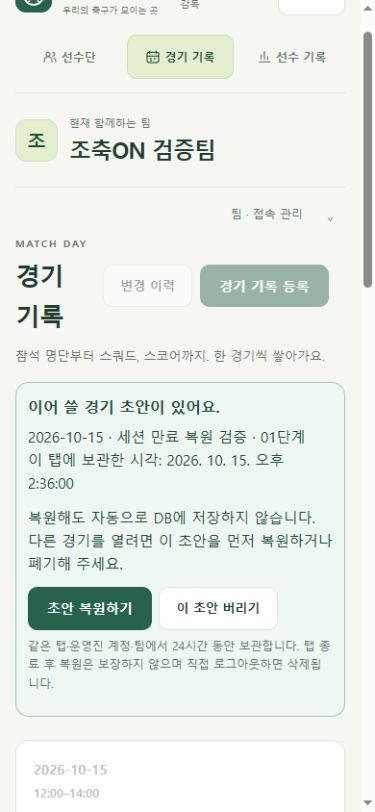
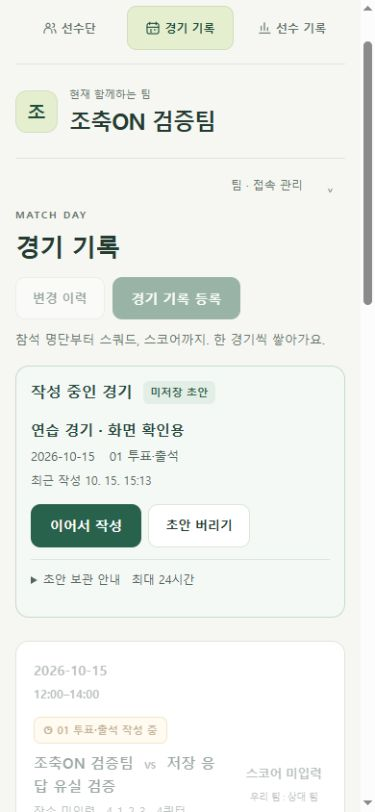
docs: refresh readable match recovery notice [skip ci]

diff --git a/docs/match-draft-recovery.md b/docs/match-draft-recovery.md
@@ -15,7 +15,7 @@
 ## 화면 흐름
 
 1. **입력**: 변경할 때마다 초안을 보관하고 서버에 저장하지 않았음을 표시한다.
-2. **돌아오기**: 경기 목록 상단에서 보관 시각·경기 정보를 확인한 후 복원하거나 폐기한다. 기존 초안이 있는 동안 새 경기로 덮어쓰지 않는다.
+2. **돌아오기**: 경기 목록의 ‘작성 중인 경기’에서 경기 정보·입력 단계·최근 작성 시각을 확인한다. ‘이어서 작성’으로 복원하거나 ‘초안 버리기’를 선택한다. 미확인 저장 요청이 있으면 ‘초안 열기’로 결과부터 확인한다. 기존 초안이 있는 동안 새 경기로 덮어쓰지 않는다.
 3. **복원**: 현재 서버 기록과 원래 version을 비교한다. 같으면 이어서 입력하고, 다른 운영진의 수정이나 삭제가 있으면 원래 초안을 읽을 수 있게 보존하되 저장을 차단한다. 자동 병합하지 않는다.
 4. **단계별 저장**: 고유 UUID와 정확한 요청 내용·기존 ID/version을 초안에 먼저 보관하고 서버로 전송한다. 저장 성공 후 초안을 정리한다.
 5. **응답 유실**: 입력을 잠그고 ‘저장 결과 확인·다시 시도’를 제공한다. 완료된 요청이면 해당 경기와 version을 확인하고, 아직 완료되지 않았으면 같은 UUID·같은 내용으로 다시 보낸다. 새 UUID로 자동 재전송하지 않는다.
@@ -28,6 +28,8 @@
 그림 생성 원본: [Generate-DraftRecoveryGuide.mjs](../scripts/Generate-DraftRecoveryGuide.mjs). 화면·API 소스는 아직 로컬에 있으며 설명 그림의 GitHub 업로드와 운영 앱 배포를 구분한다.
 
 ### 가상 자료로 확인한 모바일 복원 안내
+
+기본 화면에는 상태·경기 정보·다음 행동만 표시하고, 24시간·로그아웃·탭 종료·다른 경기 열기 규칙은 ‘초안 보관 안내’에서 펼쳐 본다. 날짜·최근 작성 시각을 짧게 표시하고 사용자 화면의 DB·요청·버전 표현을 줄였다. 보관 기간과 실제 저장·충돌 처리는 그대로다.
 
 ![390px 모바일 복원 안내 · 실제 회원 자료 없음](diagrams/match-draft-recovery-mobile.png)
 
@@ -57,3 +59,7 @@
 Java 단위·MVC 278/278, 가상 네이티브 MySQL 6/6, 프론트 98/98와 JAR·TypeScript/Vite 빌드를 통과했다. 가상 브라우저에서 부분 시간·투표 복원, 단계 저장, 서버 버전 충돌, 직접 로그아웃 정리, 세션 만료 후 재로그인, 저장 성공 후 응답 유실 복구를 확인했다. 응답 복구 시 성공 저장 요청은 한 번이었다.
 
 실제 아이폰 Safari와 Docker 통합 테스트는 이번 실행에서 확인하지 않았다. 편집 중 직접 새로고침은 내장 브라우저의 beforeunload 확인 처리 제약으로 완료하지 못해, 초안 보관 후 목록에서 새로고침한 경로로 확인했다. 운영 서버·실제 선수/경기 자료는 변경하지 않았다.
+
+### 안내 가독성 후속 정리 (2026-10-15 · 로컬)
+
+초안 목록·편집 중 보관·나가기·미확인 저장·충돌 안내의 중복 문장을 줄이고 주요 상태와 보조 규칙을 구분했다. 오류 이유는 해당 안내 안에서 한 번만 표시한다. 모바일 경기 제목의 줄바꿈도 정리했다. TypeScript/Vite 빌드와 기존 프론트 98/98 통과. 가상 브라우저의 320px·390px에서 가로 넘침 없음, 버튼·펼치기 영역 44px 이상, 키보드 Enter 펼치기/접기, 초안 보관 후 이어쓰기 확인. 백엔드·DB·운영 배포는 이번 문구 작업에서 변경하거나 재검증하지 않았다.
